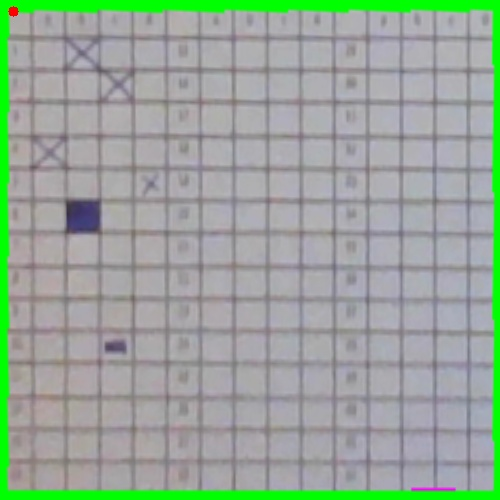
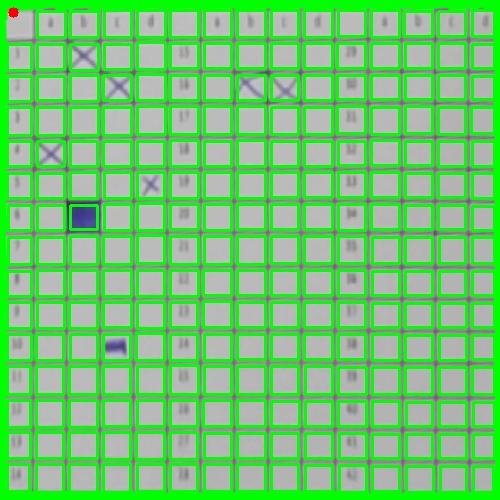
funcionou

diff --git a/webcam/main.py b/webcam/main.py
@@ -68,24 +68,24 @@ while True:
         dst = cv2.warpPerspective(frame,M,(500,500))
 
         #histogram equalization
-        '''
+        """
         dst = cv2.cvtColor(dst, cv2.COLOR_BGR2YUV)
         dst[:,:,0] = cv2.equalizeHist(dst[:,:,0])
         dst = cv2.cvtColor(dst, cv2.COLOR_YUV2BGR)
-        '''
+        """
 
         #contrast stretching
-        '''
+        """
         dst = cv2.cvtColor(dst, cv2.COLOR_BGR2YUV)
         dst[:,:,0] = cv2.normalize(dst[:,:,0], None, 0, 255, cv2.NORM_MINMAX)
         dst = cv2.cvtColor(dst, cv2.COLOR_YUV2BGR)
-        '''
+        """
 
         ## binarising image
         #adaptative thresholding
         gray_scale=cv2.cvtColor(dst,cv2.COLOR_BGR2GRAY)
         th1,img_bin = cv2.threshold(gray_scale,150,225,cv2.THRESH_BINARY)
-        #img_bin = cv2.adaptiveThreshold(gray_scale,255,cv2.ADAPTIVE_THRESH_MEAN_C,cv2.THRESH_BINARY,11,2)
+        #img_bin = cv2.adaptiveThreshold(gray_scale,255,cv2.ADAPTIVE_THRESH_GAUSSIAN_C,cv2.THRESH_BINARY,11,2)
 
         lineWidth = 7
         lineMinWidth = 55
@@ -113,30 +113,66 @@ while True:
         img_bin_final = fix(fix(img_bin_h)|fix(img_bin_v))
         finalKernel = np.ones((5,5), np.uint8)
         img_bin_final=cv2.dilate(img_bin_final,finalKernel,iterations=1)
-
+        coordinates_rectangles=[]
         ret, labels, stats,centroids = cv2.connectedComponentsWithStats(~img_bin_final, connectivity=8, ltype=cv2.CV_32S)
         count_rect = 0
         for x,y,w,h,area in stats[2:]:
-           # if x>=x1 and x<=x2 and y>=y1 and y<=y3:
             count_rect += 1
-            cv2.rectangle(img_bin,(x,y),(x+w,y+h),(0,255,0),2)
-            rectangle = img_bin[y:y+h,x:x+w]
-            #contours
-            contours, hierarchy = cv2.findContours(rectangle, cv2.RETR_TREE, cv2.CHAIN_APPROX_SIMPLE)
-            cv2.drawContours(rectangle, contours, -1, (0,255,0), 3)
-            if (len(contours) == 4):
-                print("Number of rectangle = " + str(count_rect))
-                print("Number of contours = " + str(len(contours)))
-                #draw small circle in the center of the rectangle
-                cv2.circle(dst, (int(w/2),int(h/2)), 5, (255,0,0), -1)
-            if (len(contours) == 0):
-                print("Number of rectangle = " + str(count_rect))
-                print("Number of contours = " + str(len(contours)))
-                #draw small circle in the center of the rectangle
-                cv2.circle(dst, (int(w/2),int(h/2)), 5, (0,0,255), -1)
-            if count_rect ==210:
+            cv2.rectangle(dst,(x,y),(x+w,y+h),(0,255,0),2)
+            coordinates_rectangles.append([y, y+h,x, x+w])
+        #print(coordinates_rectangles)
+        print("Number of rectangles = " + str(count_rect))
+        if count_rect == 224: #210
+            #sort rectangles by x and y coordinates
+            #coordinates_rectangles.sort(key=lambda x: x[0])
+            #coordinates_rectangles.sort(key=lambda x: x[2])
+            #print(coordinates_rectangles)
+            #iterate over all rectangles by coordinates
+            for x,y,w,h,area in stats[2:]:
+                rectangle = img_bin[y:y+h,x:x+w]
+                #contours
+                contours, hierarchy = cv2.findContours(rectangle, cv2.RETR_TREE, cv2.CHAIN_APPROX_SIMPLE)
+                cv2.drawContours(rectangle, contours, -1, (0,255,0), 3)
                 flag=1
-                break
+                if (len(contours) == 4): #if has x
+                    print("rectangle 4 = " + str(x) + ' ' + str(y))
+                    print("Number of contours = " + str(len(contours)))
+                    #draw small circle in the center of the rectangle
+                    cv2.circle(dst, (int(w/2),int(h/2)), 5, (255,0,0), -1)
+                    cv2.imshow("contours", rectangle)
+                    cv2.waitKey(0)
+                if (len(contours) == 0): #if the rectangle is black
+                    print("rectangle 0 = " + str(x) + ' ' + str(y))
+                    print("Number of contours = " + str(len(contours)))
+                    #draw small circle in the center of the rectangle
+                    cv2.circle(dst, (int(w/2),int(h/2)), 5, (0,0,255), -1)
+                    cv2.imshow("contours", rectangle)
+                    cv2.waitKey(0)
+
+                
+                
+            '''
+            #iterate over all rectangles
+            for x,y,w,h,area in stats[2:]:
+                rectangle = img_bin[y:y+h,x:x+w]
+                #contours
+                contours, hierarchy = cv2.findContours(rectangle, cv2.RETR_TREE, cv2.CHAIN_APPROX_SIMPLE)
+                cv2.drawContours(rectangle, contours, -1, (0,255,0), 3)
+                flag=1
+                if (len(contours) == 4):
+                    print("Number of rectangle = " + str(count_rect))
+                    print("Number of contours = " + str(len(contours)))
+                    #draw small circle in the center of the rectangle
+                    cv2.circle(dst, (int(w/2),int(h/2)), 5, (255,0,0), -1)
+                if (len(contours) == 0):
+                    print("Number of rectangle = " + str(count_rect))
+                    print("Number of contours = " + str(len(contours)))
+                    #draw small circle in the center of the rectangle
+                    cv2.circle(dst, (int(w/2),int(h/2)), 5, (0,0,255), -1)
+            '''
+            
+        
+            
     cv2.imshow("Image", frame)
     cv2.imshow("Perspective correction with adaptative thresholding", img_bin)
     cv2.imshow("Dest", dst)
@@ -145,4 +181,6 @@ while True:
     key = cv2.waitKey(1) & 0xFF
     if key == ord("q") or flag==1:
         break
-            
+
+cv2.destroyAllWindows()
+cam.release()
